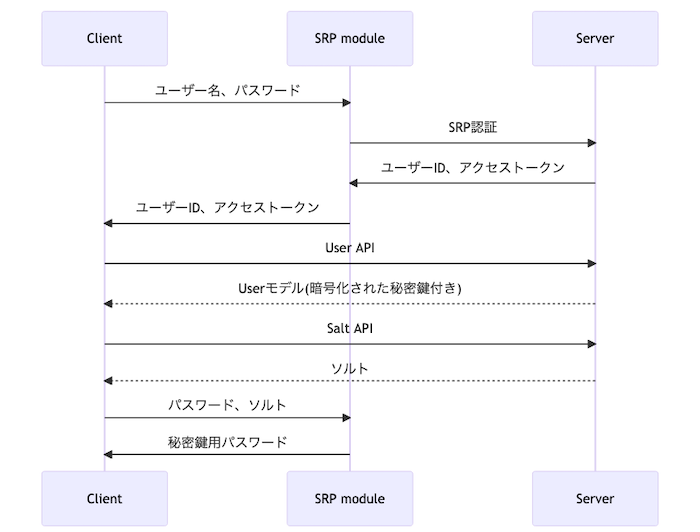
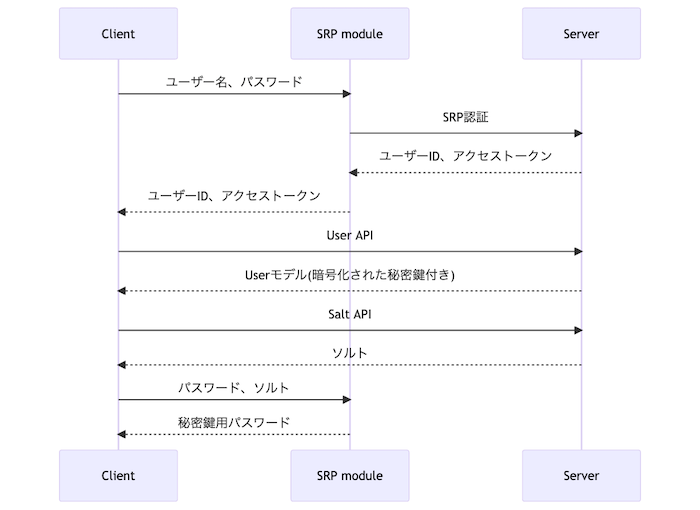
校正

diff --git a/content/Tech/proton-mail.rst b/content/Tech/proton-mail.rst
@@ -240,14 +240,14 @@ SRPの結果として、 `ユーザーIDやアクセストークン <https://git
       participant Server
       Client->>SRP module: ユーザー名、パスワード
       SRP module->>Server: SRP認証
-      Server->>SRP module: ユーザーID、アクセストークン
-      SRP module->>Client: ユーザーID、アクセストークン
+      Server-->>SRP module: ユーザーID、アクセストークン
+      SRP module-->>Client: ユーザーID、アクセストークン
       Client->>Server: User API
       Server-->>Client: Userモデル(暗号化された秘密鍵付き)
       Client->>Server: Salt API
       Server-->>Client: ソルト
       Client->>SRP module: パスワード、ソルト
-      SRP module->>Client: 秘密鍵用パスワード
+      SRP module-->>Client: 秘密鍵用パスワード
 
 .. figure:: {static}/images/proton-mail/authentication-with-srp.png
    :alt: SRPによる認証、暗号化された秘密鍵取得、秘密鍵用の共通鍵生成
@@ -263,7 +263,7 @@ SRPの結果として、 `ユーザーIDやアクセストークン <https://git
 はじめて聞いたけど、 `S2K(String-to-Key) <https://www.rfc-editor.org/rfc/rfc4880#section-3.7>`_ という文字列を鍵に変換するための枠組みが規定されていて、どうやらそれに則った処理になっているようだ。
 そこから、 `AEAD <https://developers.google.com/tink/aead>`_ 、またはAESのCFBモードに分岐しているらしいが、どういう条件なのかはよくわからない。
 
-いずれにせよ、秘密鍵は、ユーザーが指定したパスワードとサーバーから取得されたソルトからハッシュ関数で生成されたパスワードで、AES(対象鍵暗号化の標準)で暗号化されていることがわかった。
+いずれにせよ、秘密鍵は、ユーザーが指定したパスワードとサーバーから取得されたソルトからハッシュ関数で生成されたパスワードによって、AES(対象鍵暗号化の標準)で暗号化されていることがわかった。
 
 ..
   sequenceDiagram
@@ -282,16 +282,16 @@ Proton Mail所感
 ======================
 
 世の中Gmailが支配的で、PGPもあんまり普及してないらしい。そして、Proton Mailユーザー同士やPGPユーザー相手じゃないとエンドツーエンド暗号化は機能しない。だとすると、けっきょくProton Mailを使ってたとしても、実質的にエンドツーエンド暗号化ではないじゃんとは思った。
-そこは、Proton Mailについて調べるとまず第一に気になったことだ。「エンドツーエンド暗号化であらゆるコミュニケーションがプライベートであることが、 **技術的に** 保証されています」、だったら、どれだけ話がわかりやすかったことか…。
+そこが、Proton Mailについて調べてまず第一に気になったことだ。「エンドツーエンド暗号化であらゆるコミュニケーションがプライベートであることが、 **技術的に** 保証されています」、だったら、どれだけ話がわかりやすかったことか…。
 
 ただ、それでも、現状のウェブシステムでは、電子メールはまだまだ必要不可欠なツールなので、どうしても使っていく必要がある。
 その上で、Proton Mailは選択肢として悪くないし、Proton Mailの月額課金ビジネスモデルは健全だと思うので、今後とも使っていきたい。
 
 純粋に対人でのコミュニケーションで、エンドツーエンドの暗号化を期待するのであれば、他の選択肢もある。たとえば、`Signal <https://signal.org/en/>`_ [ref]ちなみにぼくはSignalユーザーでもある。ただし、いまのところSignalは、妻専用アプリと化していて、他の人とのやりとりでは、くやしながらLineを使っている。[/ref] やTelegramなどのメールではないメッセージングアプリのほうが、アプリとしての使い勝手など、優れている面があるではないかと思う。これらならば、すべてのやりとりでエンドツーエンド暗号化が保証されるので、話としてもわかりやすい。ただ、けっきょく、PGPも含め、ツールを使えるかは相手ありきで、自分だけではどうにもならないのが、歯痒いところだ。
 
-Proton Mail自体のメーラーとしての使い勝は、悪くない。数年間使ってみて、スパムフィルタや検索なども問題なく、ふつうに使えている。
+Proton Mail自体のメーラーとしての使い勝手は、悪くない。数年間使ってみて、スパムフィルタや検索なども問題なく、ふつうに使えている。
 特定のサービスからのメールがどうしても届かないということが1、2回あったけど、[ref]ためしにGmailで登録してみたら届いた[/ref] まあ支障はない。
-たぶん、Gmailには、もっと便利な自動分類機能や、他のサービスとの連携機能などが提供されているのだろうけど(ユーザーじゃないので、くわしくは知らない)、メールにそこまで高度な機能は求めてないので、とくに問題ない。
+たぶん、Gmailには、もっと便利な自動分類機能や、他のサービスとの連携機能などが提供されているのだろうけど[ref]ユーザーじゃないので、くわしくは知らない、[/ref] メールにそこまで高度な機能は求めてないので、とくに問題ない。
 
 参考リンク
 =====================
